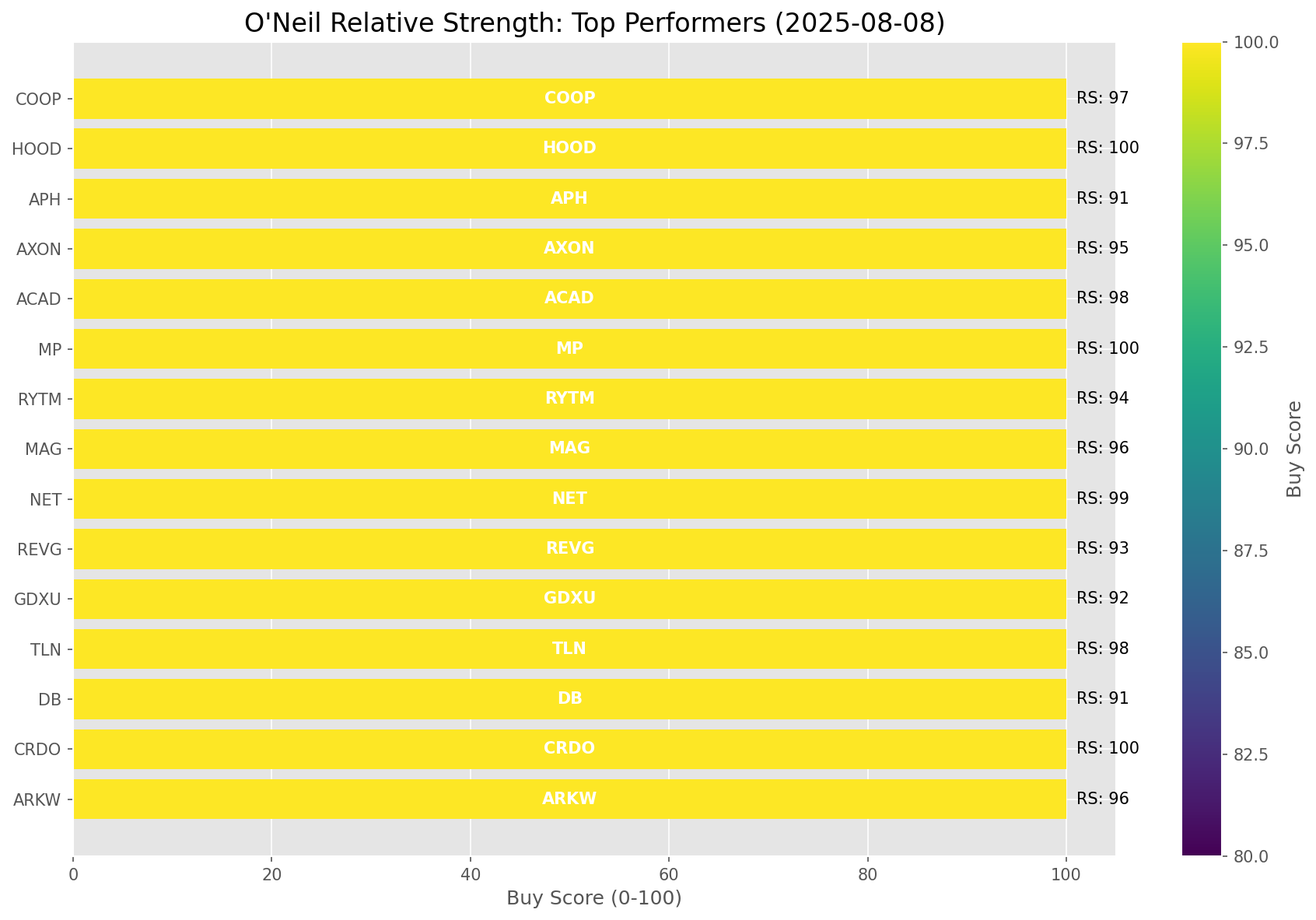
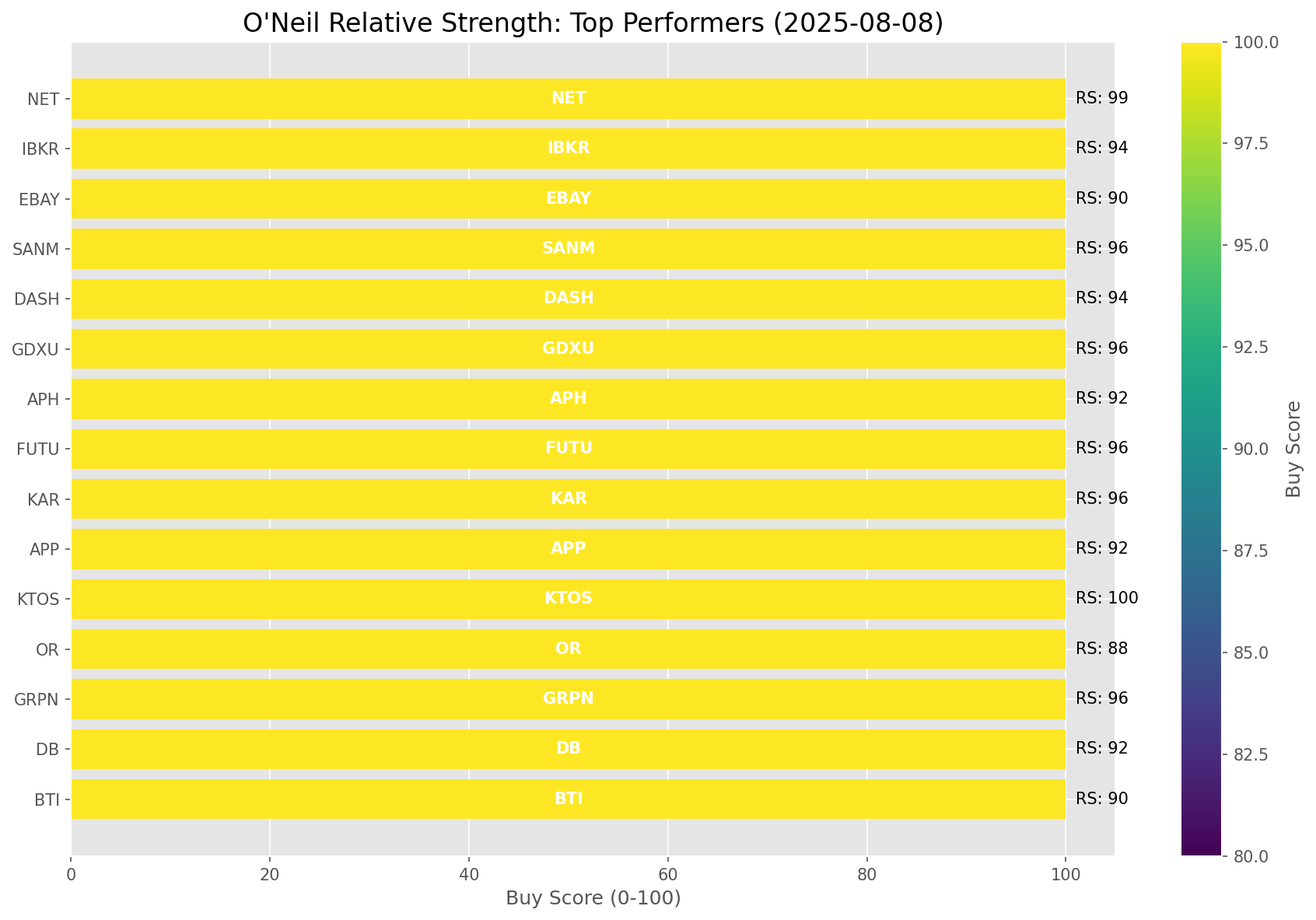
Add market report for 2025-08-08

diff --git a/oneil_relative_strength_report_2025-08-08.md b/oneil_relative_strength_report_2025-08-08.md
@@ -9,11 +9,11 @@
 | Metric | Value |
 |--------|-------|
 | **Market Valuation** | **Overvalued** |
-| **Current Ratio** | 10.26 |
-| **Historical Mean** | 9.64 |
-| **Standard Deviation** | 0.53 |
-| **Z-Score (StdDev from Mean)** | 1.17 |
-| **Total Market Cap** | $311.07 trillion |
+| **Current Ratio** | 10.31 |
+| **Historical Mean** | 9.66 |
+| **Standard Deviation** | 0.52 |
+| **Z-Score (StdDev from Mean)** | 1.14 |
+| **Total Market Cap** | $312.79 trillion |
 | **GDP** | $30.33 trillion |
 
 ## **Market Insights**
@@ -49,41 +49,41 @@ Based on William O'Neil's Relative Strength Methodology
 
 | ETF | Strength | RS Rating | Performance | Above Key MAs | Trend | Sector |
 |-----|----------|-----------|-------------|--------------|-------|--------|
-| [ARKW](https://www.tradingview.com/chart/?symbol=ARKW) | 98.0 | 96.0 | 53.84% | 10d ✓, 50d ✓, 200d ✓ | ↗ | Next Generation Internet |
-| [ARKF](https://www.tradingview.com/chart/?symbol=ARKF) | 98.0 | 96.0 | 49.52% | 10d ✓, 50d ✓, 200d ✓ | ↗ | Fintech Innovation |
-| [URA](https://www.tradingview.com/chart/?symbol=URA) | 98.0 | 96.0 | 51.62% | 10d ✓, 50d ✓, 200d ✓ | ↗ | Uranium |
-| [XLK](https://www.tradingview.com/chart/?symbol=XLK) | 91.0 | 82.0 | 22.00% | 10d ✓, 50d ✓, 200d ✓ | ↗ | Technology |
-| [SLV](https://www.tradingview.com/chart/?symbol=SLV) | 88.5 | 77.0 | 17.87% | 10d ✓, 50d ✓, 200d ✓ | ↗ | Silver |
-| [AIQ](https://www.tradingview.com/chart/?symbol=AIQ) | 88.5 | 77.0 | 18.00% | 10d ✓, 50d ✓, 200d ✓ | ↗ | Artificial Intelligence & Technology |
-| [ARKK](https://www.tradingview.com/chart/?symbol=ARKK) | 88.1 | 96.0 | 49.93% | 10d ✗, 50d ✓, 200d ✓ | ↗ | Innovation |
+| [ARKW](https://www.tradingview.com/chart/?symbol=ARKW) | 98.5 | 97.0 | 53.84% | 10d ✓, 50d ✓, 200d ✓ | ↗ | Next Generation Internet |
+| [URA](https://www.tradingview.com/chart/?symbol=URA) | 98.5 | 97.0 | 52.32% | 10d ✓, 50d ✓, 200d ✓ | ↗ | Uranium |
+| [ARKF](https://www.tradingview.com/chart/?symbol=ARKF) | 98.0 | 96.0 | 45.84% | 10d ✓, 50d ✓, 200d ✓ | ↗ | Fintech Innovation |
+| [ARKK](https://www.tradingview.com/chart/?symbol=ARKK) | 97.5 | 95.0 | 45.19% | 10d ✓, 50d ✓, 200d ✓ | ↗ | Innovation |
+| [XLK](https://www.tradingview.com/chart/?symbol=XLK) | 91.0 | 82.0 | 21.38% | 10d ✓, 50d ✓, 200d ✓ | ↗ | Technology |
+| [SLV](https://www.tradingview.com/chart/?symbol=SLV) | 89.0 | 78.0 | 17.96% | 10d ✓, 50d ✓, 200d ✓ | ↗ | Silver |
+| [AIQ](https://www.tradingview.com/chart/?symbol=AIQ) | 88.5 | 77.0 | 17.02% | 10d ✓, 50d ✓, 200d ✓ | ↗ | Artificial Intelligence & Technology |
 | [BLOK](https://www.tradingview.com/chart/?symbol=BLOK) | 86.6 | 93.0 | 39.75% | 10d ✗, 50d ✓, 200d ✓ | ↗ | Blockchain & Cryptocurrency |
-| [XLY](https://www.tradingview.com/chart/?symbol=XLY) | 83.5 | 67.0 | 12.21% | 10d ✓, 50d ✓, 200d ✓ | ↗ | Consumer Discretionary |
-| [IYZ](https://www.tradingview.com/chart/?symbol=IYZ) | 82.0 | 64.0 | 10.67% | 10d ✓, 50d ✓, 200d ✓ | ↗ | Telecommunications |
-| [XLC](https://www.tradingview.com/chart/?symbol=XLC) | 81.0 | 62.0 | 10.08% | 10d ✓, 50d ✓, 200d ✓ | ↗ | Communications |
-| [KWEB](https://www.tradingview.com/chart/?symbol=KWEB) | 79.0 | 58.0 | 8.60% | 10d ✓, 50d ✓, 200d ✓ | ↗ | Chinese Internet |
-| [PAVE](https://www.tradingview.com/chart/?symbol=PAVE) | 77.1 | 74.0 | 15.90% | 10d ✗, 50d ✓, 200d ✓ | ↗ | Infrastructure |
-| [XLU](https://www.tradingview.com/chart/?symbol=XLU) | 77.0 | 54.0 | 7.18% | 10d ✓, 50d ✓, 200d ✓ | ↗ | Utilities |
-| [XLI](https://www.tradingview.com/chart/?symbol=XLI) | 74.1 | 68.0 | 12.34% | 10d ✗, 50d ✓, 200d ✓ | ↗ | Industrial |
-| [JETS](https://www.tradingview.com/chart/?symbol=JETS) | 73.1 | 66.0 | 11.70% | 10d ✗, 50d ✓, 200d ✓ | ↗ | Airlines |
-| [ICLN](https://www.tradingview.com/chart/?symbol=ICLN) | 67.0 | 74.0 | 15.99% | 10d ✓, 50d ✓, 200d ✓ | ↘ | Clean Energy |
-| [GLD](https://www.tradingview.com/chart/?symbol=GLD) | 67.0 | 34.0 | 0.76% | 10d ✓, 50d ✓, 200d ✓ | ↗ | Gold |
-| [ITB](https://www.tradingview.com/chart/?symbol=ITB) | 65.0 | 70.0 | 13.37% | 10d ✓, 50d ✓, 200d ✓ | ↘ | Home Construction |
-| [SOXX](https://www.tradingview.com/chart/?symbol=SOXX) | 63.6 | 87.0 | 26.73% | 10d ✗, 50d ✓, 200d ✓ | ↘ | Semiconductors |
-| [CIBR](https://www.tradingview.com/chart/?symbol=CIBR) | 53.7 | 47.0 | 4.46% | 10d ✗, 50d ✗, 200d ✓ | ↗ | Cybersecurity |
-| [XLF](https://www.tradingview.com/chart/?symbol=XLF) | 52.7 | 45.0 | 3.88% | 10d ✗, 50d ✗, 200d ✓ | ↗ | Financial |
-| [IYT](https://www.tradingview.com/chart/?symbol=IYT) | 51.6 | 63.0 | 10.39% | 10d ✗, 50d ✓, 200d ✓ | ↘ | Transportation |
-| [XLP](https://www.tradingview.com/chart/?symbol=XLP) | 47.5 | 35.0 | 0.93% | 10d ✓, 50d ✓, 200d ✓ | ↘ | Consumer Staples |
-| [DBA](https://www.tradingview.com/chart/?symbol=DBA) | 41.9 | 24.0 | -1.72% | 10d ✓, 50d ✗, 200d ✗ | ↗ | Agriculture |
-| [IBB](https://www.tradingview.com/chart/?symbol=IBB) | 40.9 | 62.0 | 9.91% | 10d ✗, 50d ✓, 200d ✗ | ↘ | Biotechnology |
-| [IYR](https://www.tradingview.com/chart/?symbol=IYR) | 39.1 | 38.0 | 1.58% | 10d ✗, 50d ✓, 200d ✓ | ↘ | Real Estate |
-| [TLT](https://www.tradingview.com/chart/?symbol=TLT) | 33.8 | 28.0 | -0.26% | 10d ✓, 50d ✓, 200d ✗ | ↘ | Long-term Treasuries |
-| [ARKG](https://www.tradingview.com/chart/?symbol=ARKG) | 33.0 | 66.0 | 11.86% | 10d ✗, 50d ✗, 200d ✗ | ↘ | Genomics |
-| [DBC](https://www.tradingview.com/chart/?symbol=DBC) | 25.0 | 50.0 | 5.56% | 10d ✗, 50d ✗, 200d ✗ | ↘ | Commodities |
-| [XLB](https://www.tradingview.com/chart/?symbol=XLB) | 25.0 | 50.0 | 5.62% | 10d ✗, 50d ✗, 200d ✗ | ↘ | Materials |
-| [XLE](https://www.tradingview.com/chart/?symbol=XLE) | 24.0 | 48.0 | 4.77% | 10d ✗, 50d ✗, 200d ✗ | ↘ | Energy |
-| [UUP](https://www.tradingview.com/chart/?symbol=UUP) | 23.4 | 27.0 | -0.47% | 10d ✗, 50d ✓, 200d ✗ | ↘ | U.S. Dollar |
-| [BIL](https://www.tradingview.com/chart/?symbol=BIL) | 14.5 | 29.0 | 0.03% | 10d ✗, 50d ✗, 200d ✗ | ↘ | Short-term Treasuries |
-| [XLV](https://www.tradingview.com/chart/?symbol=XLV) | 9.0 | 18.0 | -4.69% | 10d ✗, 50d ✗, 200d ✗ | ↘ | Healthcare |
+| [PAVE](https://www.tradingview.com/chart/?symbol=PAVE) | 86.5 | 73.0 | 14.88% | 10d ✓, 50d ✓, 200d ✓ | ↗ | Infrastructure |
+| [XLI](https://www.tradingview.com/chart/?symbol=XLI) | 83.5 | 67.0 | 11.56% | 10d ✓, 50d ✓, 200d ✓ | ↗ | Industrial |
+| [XLY](https://www.tradingview.com/chart/?symbol=XLY) | 83.5 | 67.0 | 11.30% | 10d ✓, 50d ✓, 200d ✓ | ↗ | Consumer Discretionary |
+| [IYZ](https://www.tradingview.com/chart/?symbol=IYZ) | 82.5 | 65.0 | 10.67% | 10d ✓, 50d ✓, 200d ✓ | ↗ | Telecommunications |
+| [XLC](https://www.tradingview.com/chart/?symbol=XLC) | 82.5 | 65.0 | 10.58% | 10d ✓, 50d ✓, 200d ✓ | ↗ | Communications |
+| [XLU](https://www.tradingview.com/chart/?symbol=XLU) | 79.5 | 59.0 | 8.16% | 10d ✓, 50d ✓, 200d ✓ | ↗ | Utilities |
+| [KWEB](https://www.tradingview.com/chart/?symbol=KWEB) | 77.5 | 55.0 | 6.98% | 10d ✓, 50d ✓, 200d ✓ | ↗ | Chinese Internet |
+| [SOXX](https://www.tradingview.com/chart/?symbol=SOXX) | 73.5 | 87.0 | 26.16% | 10d ✓, 50d ✓, 200d ✓ | ↘ | Semiconductors |
+| [JETS](https://www.tradingview.com/chart/?symbol=JETS) | 70.6 | 61.0 | 9.03% | 10d ✗, 50d ✓, 200d ✓ | ↗ | Airlines |
+| [GLD](https://www.tradingview.com/chart/?symbol=GLD) | 70.5 | 41.0 | 2.45% | 10d ✓, 50d ✓, 200d ✓ | ↗ | Gold |
+| [ICLN](https://www.tradingview.com/chart/?symbol=ICLN) | 67.0 | 74.0 | 15.38% | 10d ✓, 50d ✓, 200d ✓ | ↘ | Clean Energy |
+| [ITB](https://www.tradingview.com/chart/?symbol=ITB) | 64.5 | 69.0 | 12.36% | 10d ✓, 50d ✓, 200d ✓ | ↘ | Home Construction |
+| [XLF](https://www.tradingview.com/chart/?symbol=XLF) | 63.1 | 46.0 | 3.98% | 10d ✗, 50d ✓, 200d ✓ | ↗ | Financial |
+| [CIBR](https://www.tradingview.com/chart/?symbol=CIBR) | 53.7 | 47.0 | 4.28% | 10d ✗, 50d ✗, 200d ✓ | ↗ | Cybersecurity |
+| [IYT](https://www.tradingview.com/chart/?symbol=IYT) | 52.1 | 64.0 | 10.39% | 10d ✗, 50d ✓, 200d ✓ | ↘ | Transportation |
+| [XLP](https://www.tradingview.com/chart/?symbol=XLP) | 48.5 | 37.0 | 1.48% | 10d ✓, 50d ✓, 200d ✓ | ↘ | Consumer Staples |
+| [IBB](https://www.tradingview.com/chart/?symbol=IBB) | 42.9 | 66.0 | 10.82% | 10d ✗, 50d ✓, 200d ✗ | ↘ | Biotechnology |
+| [DBA](https://www.tradingview.com/chart/?symbol=DBA) | 42.4 | 25.0 | -1.72% | 10d ✓, 50d ✗, 200d ✗ | ↗ | Agriculture |
+| [IYR](https://www.tradingview.com/chart/?symbol=IYR) | 39.6 | 39.0 | 2.10% | 10d ✗, 50d ✓, 200d ✓ | ↘ | Real Estate |
+| [XLB](https://www.tradingview.com/chart/?symbol=XLB) | 34.2 | 48.0 | 4.64% | 10d ✗, 50d ✗, 200d ✓ | ↘ | Materials |
+| [ARKG](https://www.tradingview.com/chart/?symbol=ARKG) | 29.0 | 58.0 | 7.82% | 10d ✗, 50d ✗, 200d ✗ | ↘ | Genomics |
+| [TLT](https://www.tradingview.com/chart/?symbol=TLT) | 25.9 | 32.0 | 0.41% | 10d ✗, 50d ✓, 200d ✗ | ↘ | Long-term Treasuries |
+| [UUP](https://www.tradingview.com/chart/?symbol=UUP) | 23.9 | 28.0 | -0.47% | 10d ✗, 50d ✓, 200d ✗ | ↘ | U.S. Dollar |
+| [DBC](https://www.tradingview.com/chart/?symbol=DBC) | 23.0 | 46.0 | 3.96% | 10d ✗, 50d ✗, 200d ✗ | ↘ | Commodities |
+| [XLE](https://www.tradingview.com/chart/?symbol=XLE) | 22.5 | 45.0 | 3.60% | 10d ✗, 50d ✗, 200d ✗ | ↘ | Energy |
+| [BIL](https://www.tradingview.com/chart/?symbol=BIL) | 15.0 | 30.0 | 0.05% | 10d ✗, 50d ✗, 200d ✗ | ↘ | Short-term Treasuries |
+| [XLV](https://www.tradingview.com/chart/?symbol=XLV) | 11.0 | 22.0 | -3.21% | 10d ✗, 50d ✗, 200d ✗ | ↘ | Healthcare |
 
 ### **Sector ETF Performance Interpretation**
 
@@ -98,132 +98,146 @@ This table shows the relative strength metrics for different market sectors base
 
 ### **Current Sector Leadership**
 
-The current market leadership is coming from the following sectors: **Next Generation Internet, Fintech Innovation, Uranium**.
+The current market leadership is coming from the following sectors: **Next Generation Internet, Uranium, Fintech Innovation**.
 
-The **Next Generation Internet** sector (represented by **ARKW**) is showing particularly strong relative strength with an RS rating of 96.0 and performance of 53.84% vs. the S&P 500. This sector is trading above its 10-day, 50-day, 200-day moving average(s). Investors should consider focusing on high RS stocks within these leading sectors for potential outperformance.
+The **Next Generation Internet** sector (represented by **ARKW**) is showing particularly strong relative strength with an RS rating of 97.0 and performance of 53.84% vs. the S&P 500. This sector is trading above its 10-day, 50-day, 200-day moving average(s). Investors should consider focusing on high RS stocks within these leading sectors for potential outperformance.
 
 ---
 
 ## **Buy Recommendations**
 
-The following 62 stocks show exceptional relative strength:
+The following 67 stocks show exceptional relative strength:
 
 | RS Rating | Buy Score | Current Price | Chart | Name | Ticker |
 |-----------|-----------|---------------|-------|------|--------|
-| 100 | 100 | $119.78 | [Chart](https://www.tradingview.com/chart/?symbol=CRDO) | Credo Technology Group Holding Ltd Ordinary Shares | CRDO |
-| 100 | 100 | $71.07 | [Chart](https://www.tradingview.com/chart/?symbol=MP) | MP Materials Corp. | MP |
-| 100 | 100 | $111.23 | [Chart](https://www.tradingview.com/chart/?symbol=HOOD) | Robinhood Markets, Inc. Class A Common Stock | HOOD |
-| 100 | 100 | $234.94 | [Chart](https://www.tradingview.com/chart/?symbol=LEU) | Centrus Energy Corp. | LEU |
-| 100 | 100 | $201.21 | [Chart](https://www.tradingview.com/chart/?symbol=CLS) | Celestica, Inc. | CLS |
-| 100 | 100 | $36.89 | [Chart](https://www.tradingview.com/chart/?symbol=GRPN) | Groupon, Inc.Common Stock | GRPN |
-| 99 | 100 | $210.44 | [Chart](https://www.tradingview.com/chart/?symbol=NET) | Cloudflare, Inc. Class A common stock, par value $0.001 per share | NET |
-| 99 | 100 | $129.63 | [Chart](https://www.tradingview.com/chart/?symbol=RBLX) | Roblox Corporation | RBLX |
-| 98 | 100 | $375.58 | [Chart](https://www.tradingview.com/chart/?symbol=TLN) | Talen Energy Corporation Common Stock | TLN |
-| 98 | 100 | $24.40 | [Chart](https://www.tradingview.com/chart/?symbol=ACAD) | Acadia Pharmaceuticals Inc. | ACAD |
-| 98 | 100 | $182.20 | [Chart](https://www.tradingview.com/chart/?symbol=PLTR) | Palantir Technologies Inc. Class A Common Stock | PLTR |
-| 98 | 100 | $59.08 | [Chart](https://www.tradingview.com/chart/?symbol=KTOS) | Kratos Defense & Security Solutions, Inc. | KTOS |
+| 100 | 100 | $64.87 | [Chart](https://www.tradingview.com/chart/?symbol=KTOS) | Kratos Defense & Security Solutions, Inc. | KTOS |
+| 100 | 100 | $243.00 | [Chart](https://www.tradingview.com/chart/?symbol=LEU) | Centrus Energy Corp. | LEU |
+| 100 | 100 | $115.85 | [Chart](https://www.tradingview.com/chart/?symbol=HOOD) | Robinhood Markets, Inc. Class A Common Stock | HOOD |
+| 100 | 100 | $73.40 | [Chart](https://www.tradingview.com/chart/?symbol=MP) | MP Materials Corp. | MP |
+| 100 | 100 | $204.91 | [Chart](https://www.tradingview.com/chart/?symbol=CLS) | Celestica, Inc. | CLS |
+| 100 | 100 | $119.91 | [Chart](https://www.tradingview.com/chart/?symbol=CRDO) | Credo Technology Group Holding Ltd Ordinary Shares | CRDO |
+| 100 | 100 | $132.26 | [Chart](https://www.tradingview.com/chart/?symbol=RBLX) | Roblox Corporation | RBLX |
+| 99 | 100 | $208.56 | [Chart](https://www.tradingview.com/chart/?symbol=NET) | Cloudflare, Inc. Class A common stock, par value $0.001 per share | NET |
 | 97 | 100 | $185.88 | [Chart](https://www.tradingview.com/chart/?symbol=COOP) | Mr. Cooper Group Inc. Common Stock | COOP |
-| 96 | 100 | $157.81 | [Chart](https://www.tradingview.com/chart/?symbol=ARKW) | ARK Next Generation Internet ETF | ARKW |
-| 96 | 100 | $22.84 | [Chart](https://www.tradingview.com/chart/?symbol=MAG) | MAG Silver Corp. | MAG |
-| 96 | 100 | $156.59 | [Chart](https://www.tradingview.com/chart/?symbol=FUTU) | Futu Holdings Limited American Depositary Shares | FUTU |
-| 96 | 100 | $270.99 | [Chart](https://www.tradingview.com/chart/?symbol=DASH) | DoorDash, Inc. Class A Common Stock | DASH |
-| 96 | 100 | $54.08 | [Chart](https://www.tradingview.com/chart/?symbol=ARKF) | ARK Fintech Innovation ETF | ARKF |
-| 96 | 100 | $105.40 | [Chart](https://www.tradingview.com/chart/?symbol=VRNA) | Verona Pharma plc | VRNA |
+| 97 | 100 | $105.40 | [Chart](https://www.tradingview.com/chart/?symbol=VRNA) | Verona Pharma plc | VRNA |
+| 97 | 100 | $186.27 | [Chart](https://www.tradingview.com/chart/?symbol=PLTR) | Palantir Technologies Inc. Class A Common Stock | PLTR |
+| 97 | 100 | $157.81 | [Chart](https://www.tradingview.com/chart/?symbol=ARKW) | ARK Next Generation Internet ETF | ARKW |
+| 97 | 100 | $36.44 | [Chart](https://www.tradingview.com/chart/?symbol=NNE) | Nano Nuclear Energy Inc. Common Stock | NNE |
+| 96 | 100 | $36.57 | [Chart](https://www.tradingview.com/chart/?symbol=GRPN) | Groupon, Inc.Common Stock | GRPN |
+| 96 | 100 | $28.00 | [Chart](https://www.tradingview.com/chart/?symbol=KAR) | OPENLANE, Inc | KAR |
+| 96 | 100 | $156.57 | [Chart](https://www.tradingview.com/chart/?symbol=FUTU) | Futu Holdings Limited American Depositary Shares | FUTU |
+| 96 | 100 | $94.50 | [Chart](https://www.tradingview.com/chart/?symbol=GDXU) | MicroSectors Gold Miners 3x Leveraged ETN | GDXU |
 | 96 | 100 | $119.02 | [Chart](https://www.tradingview.com/chart/?symbol=SANM) | Sanmina  Corp | SANM |
+| 96 | 100 | $54.28 | [Chart](https://www.tradingview.com/chart/?symbol=ARKF) | ARK Fintech Innovation ETF | ARKF |
+| 95 | 100 | $23.06 | [Chart](https://www.tradingview.com/chart/?symbol=MAG) | MAG Silver Corp. | MAG |
+| 95 | 100 | $92.48 | [Chart](https://www.tradingview.com/chart/?symbol=RYTM) | Rhythm Pharmaceuticals, Inc. Common Stock | RYTM |
 | 95 | 100 | $870.97 | [Chart](https://www.tradingview.com/chart/?symbol=AXON) | Axon Enterprise, Inc. Common Stock | AXON |
-| 95 | 100 | $437.34 | [Chart](https://www.tradingview.com/chart/?symbol=APP) | Applovin Corporation Class A Common Stock | APP |
-| 95 | 100 | $28.00 | [Chart](https://www.tradingview.com/chart/?symbol=KAR) | OPENLANE, Inc | KAR |
-| 94 | 100 | $92.48 | [Chart](https://www.tradingview.com/chart/?symbol=RYTM) | Rhythm Pharmaceuticals, Inc. Common Stock | RYTM |
-| 93 | 100 | $50.01 | [Chart](https://www.tradingview.com/chart/?symbol=REVG) | REV Group, Inc. | REVG |
-| 93 | 100 | $235.00 | [Chart](https://www.tradingview.com/chart/?symbol=AGX) | Argan, Inc | AGX |
-| 92 | 100 | $92.50 | [Chart](https://www.tradingview.com/chart/?symbol=GDXU) | MicroSectors Gold Miners 3x Leveraged ETN | GDXU |
-| 92 | 100 | $357.75 | [Chart](https://www.tradingview.com/chart/?symbol=CVNA) | Carvana Co. | CVNA |
-| 91 | 100 | $35.62 | [Chart](https://www.tradingview.com/chart/?symbol=DB) | Deutsche Bank Aktiengesellschaft | DB |
-| 91 | 100 | $108.55 | [Chart](https://www.tradingview.com/chart/?symbol=APH) | Amphenol Corporation | APH |
-| 91 | 100 | $58.04 | [Chart](https://www.tradingview.com/chart/?symbol=AU) | AngloGold Ashanti plc | AU |
-| 91 | 100 | $93.02 | [Chart](https://www.tradingview.com/chart/?symbol=EBAY) | eBay Inc | EBAY |
-| 91 | 100 | $56.68 | [Chart](https://www.tradingview.com/chart/?symbol=CALX) | CALIX, INC. | CALX |
-| 90 | 100 | $53.83 | [Chart](https://www.tradingview.com/chart/?symbol=SIL) | Global X Silver Miners ETF (NEW) | SIL |
+| 94 | 100 | $258.58 | [Chart](https://www.tradingview.com/chart/?symbol=DASH) | DoorDash, Inc. Class A Common Stock | DASH |
+| 94 | 100 | $65.31 | [Chart](https://www.tradingview.com/chart/?symbol=IBKR) | Interactive Brokers Group, Inc. Class A Common Stock | IBKR |
+| 94 | 100 | $235.00 | [Chart](https://www.tradingview.com/chart/?symbol=AGX) | Argan, Inc | AGX |
+| 94 | 100 | $50.01 | [Chart](https://www.tradingview.com/chart/?symbol=REVG) | REV Group, Inc. | REVG |
+| 93 | 100 | $57.63 | [Chart](https://www.tradingview.com/chart/?symbol=AU) | AngloGold Ashanti plc | AU |
+| 92 | 100 | $36.10 | [Chart](https://www.tradingview.com/chart/?symbol=DB) | Deutsche Bank Aktiengesellschaft | DB |
+| 92 | 100 | $459.25 | [Chart](https://www.tradingview.com/chart/?symbol=APP) | Applovin Corporation Class A Common Stock | APP |
+| 92 | 100 | $109.08 | [Chart](https://www.tradingview.com/chart/?symbol=APH) | Amphenol Corporation | APH |
+| 92 | 100 | $57.33 | [Chart](https://www.tradingview.com/chart/?symbol=CALX) | CALIX, INC. | CALX |
+| 91 | 100 | $54.49 | [Chart](https://www.tradingview.com/chart/?symbol=SIL) | Global X Silver Miners ETF (NEW) | SIL |
+| 90 | 100 | $56.96 | [Chart](https://www.tradingview.com/chart/?symbol=BTI) | British American Tobacco p.l.c. American Depositary Shares, American Depositary Shares, each representing one Ordinary Share | BTI |
+| 90 | 100 | $92.55 | [Chart](https://www.tradingview.com/chart/?symbol=EBAY) | eBay Inc | EBAY |
 | 90 | 100 | $43.34 | [Chart](https://www.tradingview.com/chart/?symbol=LTM) | LATAM Airlines Group S.A. American Depositary Shares (each representing two thousand (2,000) shares of Common Stock) | LTM |
-| 90 | 100 | $34.94 | [Chart](https://www.tradingview.com/chart/?symbol=ATAT) | Atour Lifestyle Holdings Limited American Depositary Shares | ATAT |
 | 90 | 100 | $155.22 | [Chart](https://www.tradingview.com/chart/?symbol=VSEC) | VSE Corp | VSEC |
-| 89 | 100 | $272.02 | [Chart](https://www.tradingview.com/chart/?symbol=GE) | GE Aerospace | GE |
-| 88 | 100 | $56.69 | [Chart](https://www.tradingview.com/chart/?symbol=BTI) | British American Tobacco p.l.c. American Depositary Shares, American Depositary Shares, each representing one Ordinary Share | BTI |
-| 87 | 99 | $30.36 | [Chart](https://www.tradingview.com/chart/?symbol=OR) | OR Royalties Inc. | OR |
+| 89 | 100 | $276.56 | [Chart](https://www.tradingview.com/chart/?symbol=GE) | GE Aerospace | GE |
+| 88 | 100 | $30.34 | [Chart](https://www.tradingview.com/chart/?symbol=OR) | OR Royalties Inc. | OR |
+| 88 | 100 | $41.23 | [Chart](https://www.tradingview.com/chart/?symbol=AHR) | American Healthcare REIT, Inc. | AHR |
+| 89 | 99 | $727.00 | [Chart](https://www.tradingview.com/chart/?symbol=GS) | Goldman Sachs Group Inc. | GS |
+| 88 | 99 | $53.30 | [Chart](https://www.tradingview.com/chart/?symbol=GH) | Guardant Health, Inc. Common Stock | GH |
 | 86 | 99 | $265.98 | [Chart](https://www.tradingview.com/chart/?symbol=IDCC) | InterDigital, Inc. | IDCC |
-| 85 | 99 | $19.75 | [Chart](https://www.tradingview.com/chart/?symbol=BCS) | Barclays PLC | BCS |
-| 88 | 98 | $31.44 | [Chart](https://www.tradingview.com/chart/?symbol=PAAS) | Pan American Silver Corp. | PAAS |
-| 87 | 98 | $50.39 | [Chart](https://www.tradingview.com/chart/?symbol=GH) | Guardant Health, Inc. Common Stock | GH |
+| 88 | 98 | $19.46 | [Chart](https://www.tradingview.com/chart/?symbol=LQDA) | Liquidia Corporation Common Stock | LQDA |
 | 87 | 97 | $187.87 | [Chart](https://www.tradingview.com/chart/?symbol=AWI) | Armstrong World Industries, Inc. | AWI |
-| 84 | 97 | $57.95 | [Chart](https://www.tradingview.com/chart/?symbol=ERJ) | Embraer S.A. | ERJ |
-| 82 | 96 | $39.86 | [Chart](https://www.tradingview.com/chart/?symbol=AHR) | American Healthcare REIT, Inc. | AHR |
-| 84 | 94 | $50.36 | [Chart](https://www.tradingview.com/chart/?symbol=PTCT) | PTC Therapeutics, Inc. | PTCT |
-| 83 | 94 | $66.83 | [Chart](https://www.tradingview.com/chart/?symbol=IBIT) | iShares Bitcoin Trust ETF | IBIT |
-| 83 | 94 | $227.33 | [Chart](https://www.tradingview.com/chart/?symbol=BA) | Boeing Company | BA |
-| 83 | 94 | $246.00 | [Chart](https://www.tradingview.com/chart/?symbol=BAP) | Credicorp LTD | BAP |
+| 86 | 97 | $26.88 | [Chart](https://www.tradingview.com/chart/?symbol=TFPM) | Triple Flag Precious Metals Corp. | TFPM |
+| 84 | 97 | $101.75 | [Chart](https://www.tradingview.com/chart/?symbol=WPM) | Wheaton Precious Metals Corp. Common Stock | WPM |
+| 85 | 96 | $31.81 | [Chart](https://www.tradingview.com/chart/?symbol=PAAS) | Pan American Silver Corp. | PAAS |
+| 82 | 96 | $19.80 | [Chart](https://www.tradingview.com/chart/?symbol=BCS) | Barclays PLC | BCS |
+| 84 | 95 | $246.00 | [Chart](https://www.tradingview.com/chart/?symbol=BAP) | Credicorp LTD | BAP |
+| 83 | 95 | $42.90 | [Chart](https://www.tradingview.com/chart/?symbol=FROG) | JFrog Ltd. Ordinary Shares | FROG |
+| 82 | 95 | $118.87 | [Chart](https://www.tradingview.com/chart/?symbol=GILD) | Gilead Sciences Inc | GILD |
+| 84 | 94 | $97.17 | [Chart](https://www.tradingview.com/chart/?symbol=NDAQ) | Nasdaq, Inc. Common Stock | NDAQ |
+| 84 | 94 | $34.93 | [Chart](https://www.tradingview.com/chart/?symbol=ATAT) | Atour Lifestyle Holdings Limited American Depositary Shares | ATAT |
 | 83 | 94 | $33.27 | [Chart](https://www.tradingview.com/chart/?symbol=HODL) | VanEck Bitcoin ETF | HODL |
 | 83 | 94 | $115.52 | [Chart](https://www.tradingview.com/chart/?symbol=SXT) | Sensient Technology Corporation | SXT |
-| 82 | 94 | $102.21 | [Chart](https://www.tradingview.com/chart/?symbol=BK) | Bank of New York Mellon Corporation | BK |
+| 82 | 94 | $103.44 | [Chart](https://www.tradingview.com/chart/?symbol=BK) | Bank of New York Mellon Corporation | BK |
 | 84 | 93 | $18.50 | [Chart](https://www.tradingview.com/chart/?symbol=BVN) | Compania de Minas Buenaventura S.A. | BVN |
-| 83 | 93 | $96.45 | [Chart](https://www.tradingview.com/chart/?symbol=NDAQ) | Nasdaq, Inc. Common Stock | NDAQ |
-| 82 | 93 | $63.98 | [Chart](https://www.tradingview.com/chart/?symbol=BITB) | Bitwise Bitcoin ETF | BITB |
-| 82 | 93 | $26.62 | [Chart](https://www.tradingview.com/chart/?symbol=TFPM) | Triple Flag Precious Metals Corp. | TFPM |
-| 82 | 92 | $260.68 | [Chart](https://www.tradingview.com/chart/?symbol=WTS) | Watts Water Technologies, Inc. Class A | WTS |
-| 81 | 91 | $47.48 | [Chart](https://www.tradingview.com/chart/?symbol=FAST) | Fastenal Co | FAST |
-| 80 | 90 | $17.57 | [Chart](https://www.tradingview.com/chart/?symbol=DAN) | Dana Incorporated | DAN |
-| 80 | 90 | $50.87 | [Chart](https://www.tradingview.com/chart/?symbol=FHI) | Federated Hermes, Inc. | FHI |
+| 83 | 93 | $260.68 | [Chart](https://www.tradingview.com/chart/?symbol=WTS) | Watts Water Technologies, Inc. Class A | WTS |
+| 82 | 93 | $311.04 | [Chart](https://www.tradingview.com/chart/?symbol=PODD) | Insulet Corporation | PODD |
+| 80 | 93 | $136.55 | [Chart](https://www.tradingview.com/chart/?symbol=AEM) | Agnico Eagle Mines Ltd. | AEM |
+| 82 | 92 | $47.99 | [Chart](https://www.tradingview.com/chart/?symbol=FAST) | Fastenal Co | FAST |
+| 81 | 92 | $229.88 | [Chart](https://www.tradingview.com/chart/?symbol=BA) | Boeing Company | BA |
+| 80 | 92 | $58.42 | [Chart](https://www.tradingview.com/chart/?symbol=GDX) | VanEck Gold Miners ETF | GDX |
+| 81 | 91 | $24.25 | [Chart](https://www.tradingview.com/chart/?symbol=ING) | ING Groep N.V. American Depositary Shares | ING |
+| 81 | 91 | $50.87 | [Chart](https://www.tradingview.com/chart/?symbol=FHI) | Federated Hermes, Inc. | FHI |
+| 80 | 91 | $147.27 | [Chart](https://www.tradingview.com/chart/?symbol=PPA) | Invesco Aerospace & Defense ETF | PPA |
+| 80 | 90 | $13.00 | [Chart](https://www.tradingview.com/chart/?symbol=PSLV) | Sprott Physical Silver Trust | PSLV |
 
 ---
 
 
 ## **Sell Recommendations**
 
-The following 42 stocks show deteriorating relative strength:
+The following 51 stocks show deteriorating relative strength:
 
 | RS Rating | Sell Score | Current Price | Chart | Name | Ticker |
 |-----------|------------|---------------|-------|------|--------|
-| 1 | 100 | $11.72 | [Chart](https://www.tradingview.com/chart/?symbol=NVDS) | Investment Managers Series Trust II Tradr 1.5X Short NVDA Daily ETF | NVDS |
+| 1 | 100 | $11.63 | [Chart](https://www.tradingview.com/chart/?symbol=NVDS) | Investment Managers Series Trust II Tradr 1.5X Short NVDA Daily ETF | NVDS |
+| 1 | 100 | $23.60 | [Chart](https://www.tradingview.com/chart/?symbol=TECS) | Direxion Daily Technology Bear 3x Shares | TECS |
+| 2 | 100 | $17.16 | [Chart](https://www.tradingview.com/chart/?symbol=DJT) | Trump Media & Technology Group Corp. Common Stock | DJT |
+| 2 | 100 | $13.66 | [Chart](https://www.tradingview.com/chart/?symbol=CLBT) | Cellebrite DI Ltd. Class A Ordinary Shares | CLBT |
 | 2 | 100 | $22.69 | [Chart](https://www.tradingview.com/chart/?symbol=ZSL) | ProShares UltraShort Silver | ZSL |
-| 5 | 100 | $42.10 | [Chart](https://www.tradingview.com/chart/?symbol=SDOW) | ProShares UltraPro Short Dow 30 | SDOW |
+| 2 | 100 | $37.22 | [Chart](https://www.tradingview.com/chart/?symbol=INTA) | Intapp, Inc. Common Stock | INTA |
+| 6 | 100 | $41.46 | [Chart](https://www.tradingview.com/chart/?symbol=SDOW) | ProShares UltraPro Short Dow 30 | SDOW |
 | 6 | 100 | $25.44 | [Chart](https://www.tradingview.com/chart/?symbol=TBBB) | BBB Foods Inc. | TBBB |
-| 10 | 100 | $41.51 | [Chart](https://www.tradingview.com/chart/?symbol=BILL) | BILL Holdings, Inc. | BILL |
-| 14 | 100 | $16.43 | [Chart](https://www.tradingview.com/chart/?symbol=CTO) | CTO Realty Growth, Inc. | CTO |
-| 16 | 100 | $31.75 | [Chart](https://www.tradingview.com/chart/?symbol=JD) | JD.com, Inc. | JD |
-| 2 | 99 | $17.13 | [Chart](https://www.tradingview.com/chart/?symbol=DJT) | Trump Media & Technology Group Corp. Common Stock | DJT |
-| 10 | 99 | $39.07 | [Chart](https://www.tradingview.com/chart/?symbol=SH) | ProShares Short S&P500 | SH |
-| 2 | 98 | $37.36 | [Chart](https://www.tradingview.com/chart/?symbol=INTA) | Intapp, Inc. Common Stock | INTA |
-| 3 | 98 | $13.82 | [Chart](https://www.tradingview.com/chart/?symbol=CLBT) | Cellebrite DI Ltd. Class A Ordinary Shares | CLBT |
-| 9 | 98 | $24.54 | [Chart](https://www.tradingview.com/chart/?symbol=DXD) | ProShares UltraShort Dow 30 | DXD |
-| 11 | 98 | $36.48 | [Chart](https://www.tradingview.com/chart/?symbol=LZB) | La-Z-Boy Incorporated | LZB |
-| 10 | 96 | $12.95 | [Chart](https://www.tradingview.com/chart/?symbol=EWTX) | Edgewise Therapeutics, Inc. Common Stock | EWTX |
-| 8 | 95 | $20.10 | [Chart](https://www.tradingview.com/chart/?symbol=GAP) | The Gap, Inc. | GAP |
-| 9 | 95 | $220.98 | [Chart](https://www.tradingview.com/chart/?symbol=WDAY) | Workday, Inc. Class A Common Stock | WDAY |
+| 7 | 100 | $16.44 | [Chart](https://www.tradingview.com/chart/?symbol=S) | SentinelOne, Inc. | S |
+| 9 | 100 | $41.21 | [Chart](https://www.tradingview.com/chart/?symbol=BILL) | BILL Holdings, Inc. | BILL |
+| 10 | 100 | $24.27 | [Chart](https://www.tradingview.com/chart/?symbol=DXD) | ProShares UltraShort Dow 30 | DXD |
+| 11 | 100 | $38.87 | [Chart](https://www.tradingview.com/chart/?symbol=SH) | ProShares Short S&P500 | SH |
+| 13 | 100 | $31.24 | [Chart](https://www.tradingview.com/chart/?symbol=JD) | JD.com, Inc. | JD |
+| 15 | 100 | $16.43 | [Chart](https://www.tradingview.com/chart/?symbol=CTO) | CTO Realty Growth, Inc. | CTO |
+| 8 | 99 | $220.49 | [Chart](https://www.tradingview.com/chart/?symbol=WDAY) | Workday, Inc. Class A Common Stock | WDAY |
+| 8 | 99 | $19.89 | [Chart](https://www.tradingview.com/chart/?symbol=GAP) | The Gap, Inc. | GAP |
+| 12 | 97 | $36.48 | [Chart](https://www.tradingview.com/chart/?symbol=LZB) | La-Z-Boy Incorporated | LZB |
+| 11 | 95 | $12.95 | [Chart](https://www.tradingview.com/chart/?symbol=EWTX) | Edgewise Therapeutics, Inc. Common Stock | EWTX |
 | 11 | 95 | $55.15 | [Chart](https://www.tradingview.com/chart/?symbol=HRB) | H&R Block, Inc. | HRB |
 | 10 | 94 | $14.72 | [Chart](https://www.tradingview.com/chart/?symbol=PLSE) | Pulse Biosciences, Inc Common Stock (DE) | PLSE |
-| 14 | 92 | $12.53 | [Chart](https://www.tradingview.com/chart/?symbol=CCRN) | Cross Country Healthcare Inc | CCRN |
-| 16 | 92 | $18.54 | [Chart](https://www.tradingview.com/chart/?symbol=AVBP) | ArriVent BioPharma, Inc. Common Stock | AVBP |
-| 16 | 91 | $13.03 | [Chart](https://www.tradingview.com/chart/?symbol=GOOD) | Gladstone Commercial Corporation - REIT | GOOD |
+| 14 | 92 | $36.20 | [Chart](https://www.tradingview.com/chart/?symbol=PBA) | PEMBINA PIPELINE CORPORATION | PBA |
+| 12 | 91 | $28.74 | [Chart](https://www.tradingview.com/chart/?symbol=BBWI) | Bath & Body Works, Inc. | BBWI |
+| 15 | 91 | $12.53 | [Chart](https://www.tradingview.com/chart/?symbol=CCRN) | Cross Country Healthcare Inc | CCRN |
+| 17 | 91 | $18.54 | [Chart](https://www.tradingview.com/chart/?symbol=AVBP) | ArriVent BioPharma, Inc. Common Stock | AVBP |
+| 17 | 90 | $13.03 | [Chart](https://www.tradingview.com/chart/?symbol=GOOD) | Gladstone Commercial Corporation - REIT | GOOD |
 | 19 | 90 | $16.52 | [Chart](https://www.tradingview.com/chart/?symbol=UMH) | UMH Properties, Inc. | UMH |
 | 21 | 90 | $22.57 | [Chart](https://www.tradingview.com/chart/?symbol=CURB) | Curbline Properties Corp. | CURB |
-| 15 | 89 | $25.91 | [Chart](https://www.tradingview.com/chart/?symbol=FCPT) | Four Corners Property Trust, Inc. | FCPT |
-| 15 | 89 | $36.89 | [Chart](https://www.tradingview.com/chart/?symbol=PBA) | PEMBINA PIPELINE CORPORATION | PBA |
+| 16 | 88 | $25.91 | [Chart](https://www.tradingview.com/chart/?symbol=FCPT) | Four Corners Property Trust, Inc. | FCPT |
 | 21 | 87 | $37.60 | [Chart](https://www.tradingview.com/chart/?symbol=VNO) | Vornado Realty Trust | VNO |
-| 20 | 86 | $12.10 | [Chart](https://www.tradingview.com/chart/?symbol=WSR) | Whitestone REIT | WSR |
-| 24 | 84 | $11.78 | [Chart](https://www.tradingview.com/chart/?symbol=NVG) | Nuveen AMT-Free Municipal Credit Income Fund | NVG |
-| 26 | 82 | $44.57 | [Chart](https://www.tradingview.com/chart/?symbol=EPI) | WisdomTree India Earnings Fund ETF | EPI |
-| 19 | 81 | $61.32 | [Chart](https://www.tradingview.com/chart/?symbol=UL) | Unilever plc | UL |
+| 16 | 86 | $10.06 | [Chart](https://www.tradingview.com/chart/?symbol=BRKL) | Brookline Bancorp Inc | BRKL |
+| 21 | 85 | $12.10 | [Chart](https://www.tradingview.com/chart/?symbol=WSR) | Whitestone REIT | WSR |
+| 22 | 85 | $12.43 | [Chart](https://www.tradingview.com/chart/?symbol=NU) | Nu Holdings Ltd. | NU |
+| 25 | 85 | $68.36 | [Chart](https://www.tradingview.com/chart/?symbol=BBY) | Best Buy Company, Inc. | BBY |
+| 17 | 84 | $25.57 | [Chart](https://www.tradingview.com/chart/?symbol=DOG) | ProShares Short Dow30 | DOG |
+| 25 | 83 | $11.78 | [Chart](https://www.tradingview.com/chart/?symbol=NVG) | Nuveen AMT-Free Municipal Credit Income Fund | NVG |
+| 26 | 81 | $86.64 | [Chart](https://www.tradingview.com/chart/?symbol=BIDU) | Baidu, Inc. | BIDU |
+| 22 | 80 | $68.19 | [Chart](https://www.tradingview.com/chart/?symbol=PYPL) | PayPal Holdings, Inc. Common Stock | PYPL |
+| 23 | 80 | $60.92 | [Chart](https://www.tradingview.com/chart/?symbol=UL) | Unilever plc | UL |
 | 27 | 80 | $48.36 | [Chart](https://www.tradingview.com/chart/?symbol=FR) | First Industrial Realty Trust, Inc. | FR |
-| 28 | 80 | $12.31 | [Chart](https://www.tradingview.com/chart/?symbol=RQI) | COHEN & STEERS QUALITY INCOME REALTY FUND, INC. COMMON SHARES | RQI |
 | 26 | 78 | $23.55 | [Chart](https://www.tradingview.com/chart/?symbol=FFBC) | First Financial Bancorp | FFBC |
+| 33 | 77 | $12.38 | [Chart](https://www.tradingview.com/chart/?symbol=RQI) | COHEN & STEERS QUALITY INCOME REALTY FUND, INC. COMMON SHARES | RQI |
 | 30 | 73 | $59.92 | [Chart](https://www.tradingview.com/chart/?symbol=FTSM) | First Trust Enhanced Short Maturity ETF | FTSM |
+| 31 | 73 | $30.77 | [Chart](https://www.tradingview.com/chart/?symbol=FLRN) | SPDR Bloomberg Investment Grade Floating Rate ETF | FLRN |
 | 28 | 72 | $37.07 | [Chart](https://www.tradingview.com/chart/?symbol=FRME) | First Merchants Corp | FRME |
 | 29 | 72 | $23.31 | [Chart](https://www.tradingview.com/chart/?symbol=IBTF) | iShares iBonds Dec 2025 Term Treasury ETF | IBTF |
 | 34 | 72 | $24.12 | [Chart](https://www.tradingview.com/chart/?symbol=FLBL) | Franklin Senior Loan ETF | FLBL |
-| 31 | 71 | $30.74 | [Chart](https://www.tradingview.com/chart/?symbol=FLRN) | SPDR Bloomberg Investment Grade Floating Rate ETF | FLRN |
-| 31 | 71 | $12.41 | [Chart](https://www.tradingview.com/chart/?symbol=NU) | Nu Holdings Ltd. | NU |
-| 36 | 71 | $96.50 | [Chart](https://www.tradingview.com/chart/?symbol=RWR) | SPDR Dow Jones REIT ETF | RWR |
+| 35 | 72 | $96.50 | [Chart](https://www.tradingview.com/chart/?symbol=RWR) | SPDR Dow Jones REIT ETF | RWR |
+| 37 | 71 | $89.86 | [Chart](https://www.tradingview.com/chart/?symbol=VNQ) | Vanguard Real Estate ETF | VNQ |
+| 38 | 71 | $44.26 | [Chart](https://www.tradingview.com/chart/?symbol=EPI) | WisdomTree India Earnings Fund ETF | EPI |
 | 39 | 71 | $22.08 | [Chart](https://www.tradingview.com/chart/?symbol=BUSE) | First Busey Corporation Class A Common Stock | BUSE |
-| 36 | 67 | $37.58 | [Chart](https://www.tradingview.com/chart/?symbol=GSK) | GSK plc American Depositary Shares (Each representing two Ordinary Shares) | GSK |
+| 37 | 67 | $147.28 | [Chart](https://www.tradingview.com/chart/?symbol=QCOM) | Qualcomm Inc | QCOM |
 
 ## **Methodology**
 
